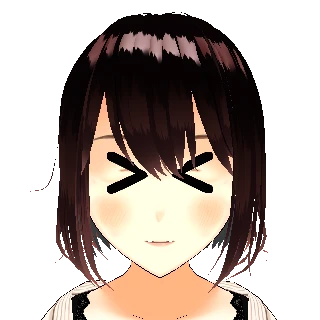
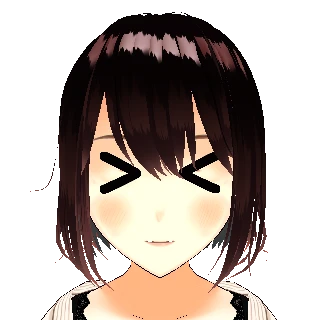
feat(reactions): apply the owner's second G2 revisions

Changed region(s): [[0.5312, 0.4688, 0.6875, 0.625], [0.3125, 0.4688, 0.4688, 0.625]]

diff --git a/src/frontend/web/tests/avatar/reactionClips.test.ts b/src/frontend/web/tests/avatar/reactionClips.test.ts
@@ -73,7 +73,7 @@ const INTENSITY_ONE_AVATAR_EFFECTS: Record<string, string> = {
 const LADDER_DEPARTURES: Record<string, Array<"avatar" | "particle">> = {
   "admiration-3-b": ["particle"],
   "amusement-3": ["particle"],
-  "amusement-3-b": ["avatar", "particle"],
+  "amusement-3-b": ["particle"],
   "amusement-4-b": ["particle"],
   "anger-4": ["particle"],
   "caring-3": ["avatar"],
@@ -81,7 +81,6 @@ const LADDER_DEPARTURES: Record<string, Array<"avatar" | "particle">> = {
   "curiosity-2-b": ["avatar"],
   "curiosity-4": ["particle"],
   "curiosity-4-b": ["particle"],
-  "desire-2-b": ["avatar"],
   "embarrassment-3": ["particle"],
   "embarrassment-3-b": ["particle"],
   "optimism-4-b": ["avatar"],

diff --git a/src/frontend/e2e/journeys/accountless-effect-template-picker.spec.ts b/src/frontend/e2e/journeys/accountless-effect-template-picker.spec.ts
@@ -174,7 +174,7 @@ test("accountless effect templates seed unsaved drafts and Start from scratch op
           picker.getByRole("heading", { name: group, exact: true }),
         ).toBeVisible();
       const images = picker.locator("img");
-      await expect(images).toHaveCount(85);
+      await expect(images).toHaveCount(87);
       // Thumbnails load lazily, so bring each card into view before checking.
       for (let index = 0; index < (await images.count()); index += 1)
         await images.nth(index).scrollIntoViewIfNeeded();

diff --git a/src/frontend/web/src/lib/effects/effectTemplates.ts b/src/frontend/web/src/lib/effects/effectTemplates.ts
@@ -164,6 +164,8 @@ export const AVATAR_EFFECT_TEMPLATES: readonly AvatarEffectTemplate[] = [
     framing: "wide",
   }),
   included("skunk_cloud", "Skunk Cloud", "around-head", { framing: "wide" }),
+  included("tehe_star", "Tehe Star", "around-head", { framing: "wide" }),
+  included("craving_drool", "Craving Drool", "around-head"),
   included("passing_crow", "Passing Crow", "around-head", {
     framing: "wide",
   }),

diff --git a/docs/plans/reaction-pools/reaction-pools-execplan.md b/docs/plans/reaction-pools/reaction-pools-execplan.md
@@ -360,15 +360,27 @@ Content (`content/included/`):
   romance) to sky blue, the first with the owner's gold twinkle star and
   silver glint stickers in place of its lilac flower and pink sparkle, the
   second with gold-tinted sparkles. Licence records note each edit.
-- 2026-10-15, agent (G2 round 1): removals without a replacement leave 16
+- 2026-10-15, agent (G2 round 1): removals without a replacement leave
   recorded ladder departures (R2 is guidance), pinned in
-  `reactionClips.test.ts`: no Avatar Effect in amusement-3-b, caring-3,
-  confidence-3, curiosity-2-b, desire-2-b and optimism-4-b; no Particle
+  `reactionClips.test.ts` (as of round 2): no Avatar Effect in caring-3,
+  confidence-3, curiosity-2-b and optimism-4-b; no Particle
   Effect in admiration-3-b, amusement-3, amusement-3-b, amusement-4-b,
   anger-4, curiosity-4, curiosity-4-b, embarrassment-3, embarrassment-3-b,
   remorse-3-b and sadness-3-b. The draft generators now read today's
   Reactions from the `87dce31b` baseline export (the promotion replaced them
   in place) and apply the owner's revisions as a layer (`G2` in `ladder.py`).
+- 2026-10-15, owner (G2 round 2): admiration-1 surprised 0.1; new effects
+  for amusement-3-b and desire-2-b; the `eye_vv` "> <" eyes a little further
+  apart everywhere. Agent concepts, Marker style like the other cute marks,
+  silent: **Tehe Star** (`tehe_star`, boil flipbook), a plump crayon star
+  that pops out beside the head, the cheeky anime "tehe☆" star, for
+  amusement-3-b's mischievous snicker (the owner chose it after rejecting a
+  first draft of mint "pfft" spurts at the mouth, which read as snot);
+  **Craving Drool** (`craving_drool`,
+  four edited frames played once), a drool strand that drips from the mouth
+  corner, the anime "I want it" drool, for desire-2-b. `eye_vv`'s offset
+  toward the nose drops from 1.2 to 0.6 cm per eye. The Included effects
+  from this plan are now 54.
 
 ## Gates
 
@@ -1405,7 +1417,7 @@ R1; pools of up to four Reactions per cell, stored as one binding row per
 member and picked at random without repeating a cell's last played member;
 pool editing in `/animas/`, the equip dialog, the Create Anima wizard and
 sharing details, sharing Idle's components; pools in creation and packages;
-168 Included Reactions on a four-step ladder with 52 new hand-drawn effects;
+168 Included Reactions on a four-step ladder with 54 new hand-drawn effects;
 every starter cell holding its Included Reactions; the `animation:reel`
 recorder. Open: the owner's G2/G3 review before merge, the wizard's browser
 check, and the in-chat escalation and variety check after merge.
@@ -1428,7 +1440,7 @@ Scene Effects, new ones in bold. Every starter cell holds its Reactions.
 
 | Emotion | Int. | Reaction | Source | Expression | Effects | Note |
 | --- | --- | --- | --- | --- | --- | --- |
-| admiration | 1 | `admiration-1` | new | happy .75 surprised .50 relaxed .38 | — | Impressed, eyes wide; owner G2 revision |
+| admiration | 1 | `admiration-1` | new | happy .75 relaxed .38 surprised .10 | — | Impressed, eyes wide; owner G2 revision |
 | admiration | 2 | `admiration-2` | today `admiration-1` | relaxed .35 happy .20 | A: star3 | Expression strengthened; owner G2 revision |
 | admiration | 2 | `admiration-2-b` | new | surprised 1.00 → surprised 1.00 happy .75 | A: **kirakira_cluster** (new) | An impressed "ooh" that warms into a smile |
 | admiration | 3 | `admiration-3` | today `admiration-2` | happy .75 relaxed .35 | A: star3; P: twinkle-shimmer | Expression strengthened |
@@ -1481,7 +1493,7 @@ Scene Effects, new ones in bold. Every starter cell holds its Reactions.
 | amusement | 2 | `amusement-2` | today `amusement-1` | happy .75 | A: eye_vv | Expression strengthened |
 | amusement | 2 | `amusement-2-b` | new | happy .60 blinkLeft .50 | A: laugh_marks | A haughty "ohoho"; owner G2 revision |
 | amusement | 3 | `amusement-3` | today `amusement-2` | happy .75 | A: eye_vv; A: heh_lettering | No Particle Effect; rising notes read as giggles; expression strengthened; owner G2 revision |
-| amusement | 3 | `amusement-3-b` | new | happy 1.00 angry .15 | — | Mischievous snicker; owner G2 revision |
+| amusement | 3 | `amusement-3-b` | new | happy 1.00 angry .15 | A: **tehe_star** (new) | Mischievous snicker; owner G2 revision |
 | amusement | 4 | `amusement-4` | today `amusement-3` | happy .75 | A: eye_vv; P: confetti; S: scene-vfx-emotion-amusement | Expression strengthened |
 | amusement | 4 | `amusement-4-b` | new | surprised 1.00 → happy 1.00 sad .26 | A: laugh_marks; A: streaming_tears; S: **scene-vfx-emotion-amusement-b** (new) | Cracking up, tears of laughter; owner G2 revision |
 | excitement | 1 | `excitement-1` | new | happy .75 surprised .44 | A: kira_star | Eager, bright-eyed (Subtle effect to tell it from joy and desire (D19)) |
@@ -1500,7 +1512,7 @@ Scene Effects, new ones in bold. Every starter cell holds its Reactions.
 | joy | 4 | `joy-4-b` | new | surprised 1.00 → happy .75 surprised .69 | A: **kirakira_cluster** (new); A: hearts_burst; P: **flower-pop** (new); S: **scene-vfx-emotion-joy-b** (new) | Flowers bloom around the head |
 | desire | 1 | `desire-1` | new | happy .75 surprised .57 relaxed .29 | A: blush_band | Longing glance (Subtle effect to tell it from joy and excitement (D19)) |
 | desire | 2 | `desire-2` | today `desire-1` | happy .75 relaxed .50 | A: blush | Expression strengthened |
-| desire | 2 | `desire-2-b` | new | happy .75 surprised .60 | — | "I want it!" money eyes (Comedic wanting; heart_pop is the gentler alternative); owner G2 revision |
+| desire | 2 | `desire-2-b` | new | happy .75 surprised .60 | A: **craving_drool** (new) | "I want it!" money eyes (Comedic wanting; heart_pop is the gentler alternative); owner G2 revision |
 | desire | 3 | `desire-3` | today `desire-2` | happy .75 relaxed .55 | A: heart_eyes; P: hearts-v1 | Expression strengthened |
 | desire | 3 | `desire-3-b` | new | surprised 1.00 → surprised .82 happy .75 | A: **kirakira_cluster** (new); A: blush; P: sparkle-hearts | Eager, eyes sparkling |
 | desire | 4 | `desire-4` | today `desire-3` | happy .75 relaxed .52 | A: heart_eyes; A: blush; P: heart-fireworks; S: scene-vfx-emotion-desire | Expression strengthened |
